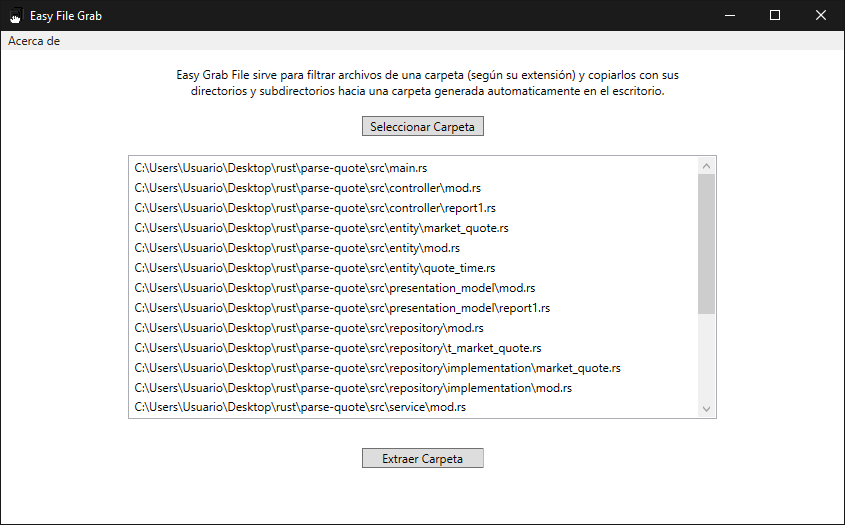
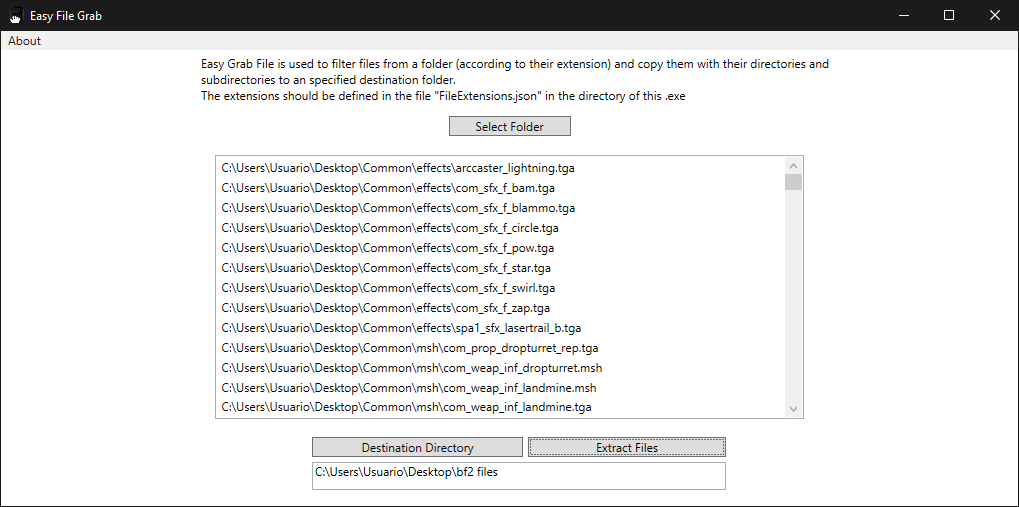
Added destination folder selection

diff --git a/Easy File Grab/MainWindow.xaml b/Easy File Grab/MainWindow.xaml
@@ -5,17 +5,19 @@
         xmlns:mc="http://schemas.openxmlformats.org/markup-compatibility/2006"
         xmlns:local="clr-namespace:Easy_File_Grab"
         mc:Ignorable="d"
-        Title="Easy File Grab" Height="513.934" Width="859.016">
+        Title="Easy File Grab" Height="513.934" Width="1033.016">
     <Grid>
-        <Menu HorizontalAlignment="Left" Height="19" VerticalAlignment="Top" Width="851">
-            <MenuItem Header="Acerca de" Click="MenuItem_Click"/>
+        <Menu HorizontalAlignment="Left" Height="19" VerticalAlignment="Top" MinWidth="1920">
+            <MenuItem Header="About" Click="MenuItem_Click"/>
         </Menu>
 
-        <TextBlock Margin="154,35,144,0" TextWrapping="Wrap" Text="Easy Grab File sirve para filtrar archivos de una carpeta (según su extensión) y copiarlos con sus directorios y subdirectorios hacia una carpeta generada automaticamente en el escritorio." VerticalAlignment="Top" TextAlignment="Center" HorizontalAlignment="Center"/>
-        <Button x:Name="SelectFolderButton" Content="Seleccionar Carpeta" HorizontalAlignment="Center" Margin="335,85,335,0" VerticalAlignment="Top" Width="122" Click="SelectFolderButton_Click"/>
-        <Button x:Name="ExtractFilesButton" Content="Extraer Carpeta" HorizontalAlignment="Center" Margin="335,417,335,0" VerticalAlignment="Top" Width="122" Click="ExtractFilesButton_Click"/>
+        <TextBlock Margin="172,24,161,0" TextWrapping="Wrap" VerticalAlignment="Top" TextAlignment="Justify" HorizontalAlignment="Center" Height="56"><Run Text="Easy Grab File is used to filter files from a folder (according to their extension) and copy them with their directories and subdirectories to an specified destination folder."/><LineBreak/><Run Text="The extensions should be defined in the file &quot;FileExtensions.json&quot; in the directory of this .exe"/></TextBlock>
+        <Button x:Name="SelectFolderButton" Content="Select Folder" HorizontalAlignment="Center" Margin="335,85,335,0" VerticalAlignment="Top" Width="122" Click="SelectFolderButton_Click"/>
+        <Button x:Name="ExtractFilesButton" Content="Extract Files" HorizontalAlignment="Center" Margin="477,406,242,0" VerticalAlignment="Top" Width="198" Click="ExtractFilesButton_Click"/>
         <ListBox x:Name="FilesListBox" Height="264" Margin="101,124,102,0" Width="589" HorizontalAlignment="Center" VerticalAlignment="Top"/>
-        <TextBlock x:Name="EmptyFolderLabel" HorizontalAlignment="Center" Margin="0,212,0,0" TextWrapping="Wrap" Text="La carpeta seleccionada y sus subcarpetas no contienen archivos con las extensiones elegidas." VerticalAlignment="Top" Visibility="Hidden"/>
+        <TextBlock x:Name="EmptyFolderLabel" HorizontalAlignment="Center" Margin="0,212,0,0" TextWrapping="Wrap" Text="The selected folder and its subfolders do not contain files with the chosen extensions." VerticalAlignment="Top" Visibility="Hidden"/>
+        <Button x:Name="DestinationDirectoryButton" Content="Destination Directory" HorizontalAlignment="Center" Margin="261,406,445,0" VerticalAlignment="Top" Width="211" Click="DestinationDirectoryButton_Click"/>
+        <TextBox x:Name="DestinationDirectoryTextBox" Height="28" HorizontalAlignment="Center" Margin="261,431,242,0" TextWrapping="Wrap" VerticalAlignment="Top" Text="Select directory..." IsReadOnly="True" Width="414"/>
 
     </Grid>
 </Window>

diff --git a/Easy File Grab/MainWindow.xaml.cs b/Easy File Grab/MainWindow.xaml.cs
@@ -25,7 +25,8 @@ namespace Easy_File_Grab
     /// </summary>
     public partial class MainWindow : Window
     {
-        private readonly string[] fileExtensions;
+        private string[] fileExtensions;
+        private DirectoryInfo destinationDirectory;
         private DirectoryInfo selectedDirectory;
         private readonly List<FileInfo> filteredFiles;
 
@@ -35,17 +36,18 @@ namespace Easy_File_Grab
 
             ExtractFilesButton.IsEnabled = false;
             filteredFiles = new List<FileInfo>();
-
-            string jsonData = File.ReadAllText(@"D:\Visual Studio Projects\Repos\Easy-File-Grab\Easy File Grab\FileExtensions.json");
-            fileExtensions = JsonConvert.DeserializeObject<string[]>(jsonData);
         }
 
         private void SelectFolderButton_Click(object sender, RoutedEventArgs e)
         {
+            string currentDirectory = AppDomain.CurrentDomain.BaseDirectory;
+            string jsonData = File.ReadAllText(currentDirectory + @"\FileExtensions.json");
+            fileExtensions = JsonConvert.DeserializeObject<string[]>(jsonData);
+
             WinForms.FolderBrowserDialog selectFolderDialog = new WinForms.FolderBrowserDialog
             {
                 ShowNewFolderButton = false,
-                SelectedPath = System.AppDomain.CurrentDomain.BaseDirectory
+                SelectedPath = AppDomain.CurrentDomain.BaseDirectory
             };
             WinForms.DialogResult result = selectFolderDialog.ShowDialog();
 
@@ -64,6 +66,7 @@ namespace Easy_File_Grab
                         filteredFiles.Add(file);
                     }
                 }
+
                 if (FilesListBox.Items.IsEmpty)
                 {
                     ExtractFilesButton.IsEnabled = false;
@@ -71,7 +74,10 @@ namespace Easy_File_Grab
                 }
                 else
                 {
-                    ExtractFilesButton.IsEnabled = true;
+                    if (!FilesListBox.Items.IsEmpty && !DestinationDirectoryTextBox.Text.Equals("Select directory..."))
+                    {
+                        ExtractFilesButton.IsEnabled = true;
+                    }
                     EmptyFolderLabel.Visibility = Visibility.Hidden;
                 }
             }
@@ -81,8 +87,6 @@ namespace Easy_File_Grab
         {
             if (selectedDirectory.Exists)
             {
-                DirectoryInfo desktopCopyDirectory = new DirectoryInfo(System.IO.Path.Combine(Environment.GetFolderPath(Environment.SpecialFolder.Desktop), "Easy File Grab - Archivos"));
-
                 foreach (FileInfo file in filteredFiles)
                 {
                     int i = 0;
@@ -91,19 +95,42 @@ namespace Easy_File_Grab
                         ++i;
                         if (i % 2 == 0)
                         {
-                            Directory.CreateDirectory(System.IO.Path.Combine(desktopCopyDirectory.FullName, cutPath));
-                            File.Copy(file.FullName, System.IO.Path.Combine(desktopCopyDirectory.FullName, cutPath, file.Name), true);
+                            Directory.CreateDirectory(System.IO.Path.Combine(destinationDirectory.FullName, cutPath));
+                            File.Copy(file.FullName, System.IO.Path.Combine(destinationDirectory.FullName, cutPath, file.Name), true);
                         }
                     }
                 }
 
-                MessageBox.Show("Su carpeta y archivos han sido filtrados y extraidos a su escritorio dento de la carpeta \"Easy File Grab - Archivos\"", "Carpeta Extraída!", MessageBoxButton.OK, MessageBoxImage.Information);
+                string messageBoxInfo = $"The files in the selected folder have been filtered and extracted to the folder {destinationDirectory.FullName}";
+                MessageBox.Show(messageBoxInfo, "Success!", MessageBoxButton.OK, MessageBoxImage.Information);
             }
         }
 
         private void MenuItem_Click(object sender, RoutedEventArgs e)
         {
-            MessageBox.Show("Autor: Diego Castillo\nTecnologia: Windows Presentation Foundation\nLicencia: MIT", "Acerca de", MessageBoxButton.OK, MessageBoxImage.Question);
+            MessageBox.Show("Author: Diego Castillo\nTechnology: WPF, NET Framework 4.7.2\nLicense: MIT", "About", MessageBoxButton.OK, MessageBoxImage.Question);
+        }
+
+        private void DestinationDirectoryButton_Click(object sender, RoutedEventArgs e)
+        {
+            WinForms.FolderBrowserDialog selectFolderDialog = new WinForms.FolderBrowserDialog
+            {
+                ShowNewFolderButton = false,
+                SelectedPath = System.AppDomain.CurrentDomain.BaseDirectory
+            };
+            WinForms.DialogResult result = selectFolderDialog.ShowDialog();
+
+            if (result == WinForms.DialogResult.OK)
+            {
+                string selectedPath = selectFolderDialog.SelectedPath;
+                destinationDirectory = new DirectoryInfo(selectedPath);
+                DestinationDirectoryTextBox.Text = destinationDirectory.FullName;
+
+                if (!FilesListBox.Items.IsEmpty && !DestinationDirectoryTextBox.Text.Equals("Select directory..."))
+                {
+                    ExtractFilesButton.IsEnabled = true;
+                }
+            }
         }
     }
 }
